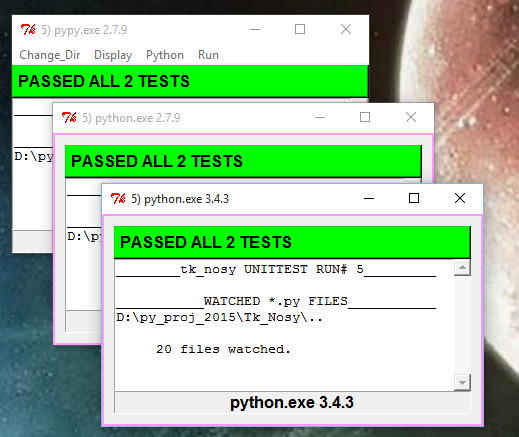
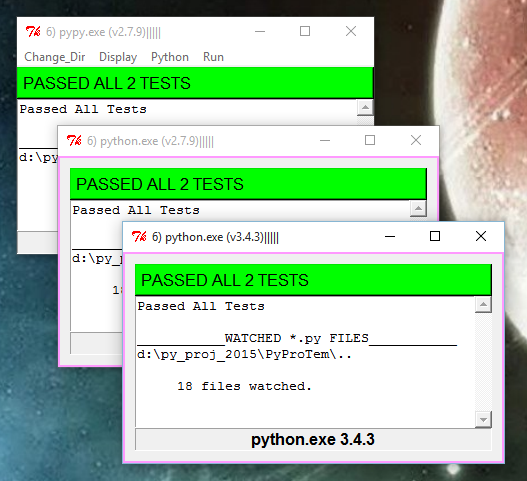
v0.1.4 cleaned up docs and GUI

diff --git a/tk_nosy/main_gui.py b/tk_nosy/main_gui.py
@@ -56,7 +56,7 @@ under certain conditions.
 __author__ = 'Charlie Taylor'
 __copyright__ = 'Copyright (c) 2013 Charlie Taylor'
 __license__ = 'GPL-3'  # see file LICENSE.TXT
-__version__ = '0.1.3'  # METADATA_RESET:__version__ = '<<version>>'
+__version__ = '0.1.4'  # METADATA_RESET:__version__ = '<<version>>'
 __email__ = "charlietaylor@users.sourceforge.net"
 __status__ = "Development"  # "Prototype", "Development", or "Production"
 
@@ -686,12 +686,12 @@ class Tk_Nosy(object):
 
         pad = '|'*self.oscillator
 
-        s = '%s %s'%(self.defaultPyInterp.exe_name, self.defaultPyInterp.version_str)
+        s = '%s (v%s)'%(self.defaultPyInterp.exe_name, self.defaultPyInterp.version_str)
 
         self.master.title('%i) %s '%(self.numNosyCalls , s + pad ))
 
         for PI,Popup in Tk_Nosy.concurrent_versionL:
-            s = '%s %s'%(PI.exe_name, PI.version_str)
+            s = '%s (v%s)'%(PI.exe_name, PI.version_str)
             Popup.title( '%i) %s '%(self.numNosyCalls , s + pad ) )
 
 

diff --git a/setup.py b/setup.py
@@ -30,7 +30,7 @@ setup(
     # Versions should comply with PEP440.  For a discussion on single-sourcing
     # the version across setup.py and the project code, see
     # https://packaging.python.org/en/latest/single_source_version.html
-    version = '0.1.3',  # METADATA_RESET:    version = '<<version>>',
+    version = '0.1.4',  # METADATA_RESET:    version = '<<version>>',
 
     description='Tk_Nosy monitors project and unittest files and runs nosetests when they change.',
     long_description=long_description,

diff --git a/docs/conf.py b/docs/conf.py
@@ -70,9 +70,9 @@ author = u'Charlie Taylor'
 # built documents.
 #
 # The short X.Y version.
-version = '0.1.3'  # METADATA_RESET:version = '<<version>>'
+version = '0.1.4'  # METADATA_RESET:version = '<<version>>'
 # The full version, including alpha/beta/rc tags.
-release = '0.1.3'  # METADATA_RESET:release = '<<version>>'
+release = '0.1.4'  # METADATA_RESET:release = '<<version>>'
 
 # The language for content autogenerated by Sphinx. Refer to documentation
 # for a list of supported languages.

diff --git a/tk_nosy/pyterps.py b/tk_nosy/pyterps.py
@@ -43,7 +43,7 @@ from __future__ import print_function
 __author__ = 'Charlie Taylor'
 __copyright__ = 'Copyright (c) 2015 Charlie Taylor'
 __license__ = 'GPL-3'
-__version__ = '0.1.3'  # METADATA_RESET:__version__ = '<<version>>'
+__version__ = '0.1.4'  # METADATA_RESET:__version__ = '<<version>>'
 __email__ = "cet@appliedpython.com"
 __status__ = "Development" # "Prototype", "Development", or "Production"
 

diff --git a/metadata_reset.py b/metadata_reset.py
@@ -50,7 +50,7 @@ def render_file( full_file_name, metadataD ):
 if __name__ == "__main__":
     import os
     
-    metadataD =  {"<<version>>":"0.1.3"}
+    metadataD =  {"<<version>>":"0.1.4"}
 
     render_file( os.path.abspath('./docs/conf.py'), metadataD )
     render_file( os.path.abspath('./setup.py'), metadataD )

diff --git a/tk_nosy/__init__.py b/tk_nosy/__init__.py
@@ -1,2 +1,2 @@
 
-__version__ = '0.1.3'  # METADATA_RESET:__version__ = '<<version>>'
+__version__ = '0.1.4'  # METADATA_RESET:__version__ = '<<version>>'

diff --git a/docs/index.rst b/docs/index.rst
@@ -19,9 +19,11 @@ under development change.  In addition to conventional CPython, PYPY is also acc
 
 It can run any number of python interpreters concurrently such that, for example, 
 python 2 and python 3 conventions can both be monitored at the same time. 
-The image below shows concurrent nosetests for pypy as well as standard CPython python 2.7.9 and 3.4.3.
+The image below shows concurrent nosetests for pypy as well as standard CPython python 2.7.9 and 3.4.3 running on both **Windows and Linux**.
 
 .. image:: _static/watch_3_py.png
+    :width: 45%
+.. image:: _static/watch_3_py_linux.png
     :width: 40%
 
 

diff --git a/todo.rst b/todo.rst
@@ -3,8 +3,10 @@
 TODO List
 =========
 
-tk_sphinxy - watch RST files and run "make html" when they change.
+* tk_sphinxy - watch RST files and run "make html" when they change.
              may launch browser to view also
              
-Add Linux image of concurrent python versions running tk_nosy.
-
+* Add Linux image of concurrent python versions running tk_nosy to docs.
+    - Fix title on Linux (shows python2.7.2.7.6)
+    - On Linux, shows "Passed all Tests" instead of ____tk_nosy UNITTEST RUN# 5____
+    
